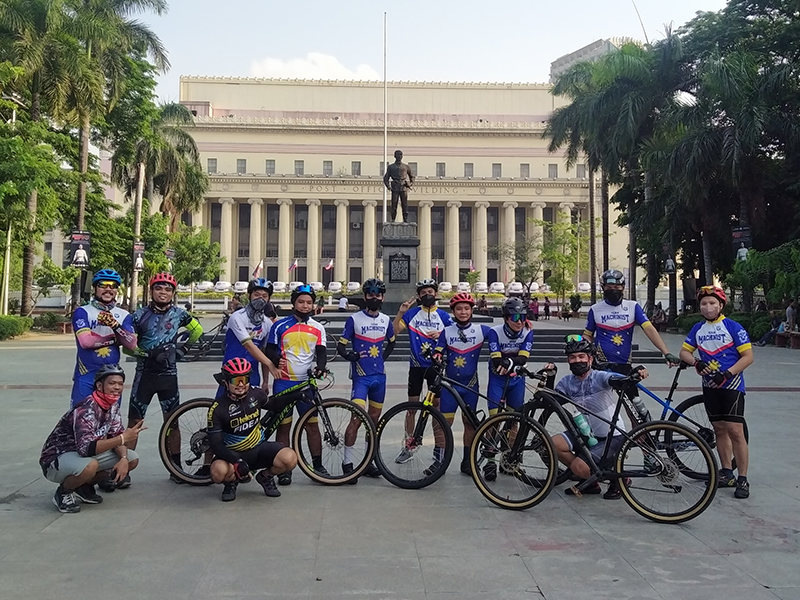
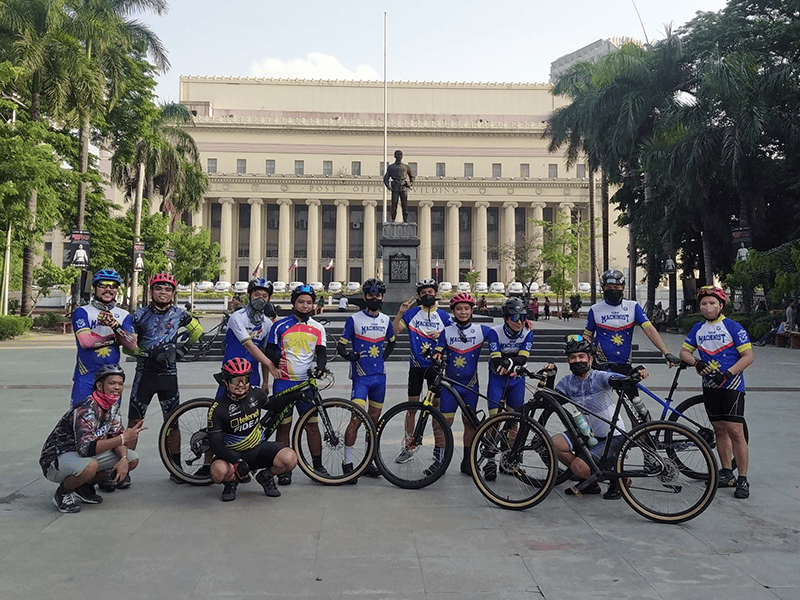
optimize image

diff --git a/portfolio.html b/portfolio.html
@@ -39,9 +39,9 @@
                 <a href="view.html" onclick="loadProject('dishwashing')">
                     <div class="content to-animate">
                         <div class="compile-image-container img-min-height neumorphism box-background">
-                            <img src="img/dishwashing/Calamansi.png" alt="" width="100%">
-                            <img src="img/dishwashing/Lemon.png" alt="" width="100%">
-                            <img src="img/dishwashing/Mockup.png" alt="" width="100%">
+                            <img src="img/compressImage/Calamansi.png" alt="" width="100%">
+                            <img src="img/compressImage/Lemon.png"alt="" width="100%">
+                            <img src="img/compressImage/Mockup.png" alt="" width="100%">
                         </div>
                         <p class="to-animate" class="to-animate"><b>Dishwashing </b><br>The Dishwashing cover project was created in January 2025 as requested by my sister. This project was created by using PhotoShop and it is called compositing, by using different images to compose a single useful image. It was created to help my sister's husband to sell dishwashing liquid to the market for the organization of PWD in their barangay.</p>
                     </div>
@@ -50,9 +50,9 @@
                 <a href="view.html" onclick="loadProject('jersey')">
                     <div class="content row-reverse to-animate">
                         <div class="compile-image-container img-min-height neumorphism box-background">
-                            <img src="img/jersey/Cycling shirt back view.png" alt="" width="100%">
-                            <img src="img/jersey/Cycling shirt front view.png" alt="" width="100%">
-                            <img src="img/jersey/Cycling shorts front view.png" alt="" width="100%">
+                            <img src="img/compressImage/Cycling shirt back view.png" alt="" width="100%">
+                            <img src="img/compressImage/Cycling shirt front view.png" alt="" width="100%">
+                            <img src="img/compressImage/Cycling shorts front view.png" alt="" width="100%">
                         </div>
                         <p class="to-animate"><b>Cycling Jersey</b><br>The team Machinist jersey this is my project to help my co-cyclist to create a new jersey for our private group. They give me the preferred color of the jersey; that's why it's colored black and yellow-green. It's created using Adobe Illustrator for high-quality design. It took me almost 2 months to finish this design because I have 0 knowledge of Adobe Illustrator, so I needed to study first.</p>
                     </div>
@@ -61,9 +61,9 @@
                 <a href="view.html" onclick="loadProject('logoDesign')">
                     <div class="content to-animate">
                         <div class="compile-image-container img-min-height neumorphism box-background">
-                            <img src="img/waterStationLogo/JME banner.png" alt="" width="100%">
-                            <img src="img/waterStationLogo/JME logo.png" alt="" width="100%">
-                            <img src="img/waterStationLogo/business Card.png" alt="" width="100%">
+                            <img src="img/compressImage/JME banner.png" alt="" width="100%">
+                            <img src="img/compressImage/JME logo.png" alt="" width="100%">
+                            <img src="img/compressImage/Business card.png" alt="" width="100%">
                         </div>
                         <p class="to-animate"><b>Water refilling Station logo design</b><br>I made this logo for my cousin, who runs his 1st water refilling business. This is my first paid design; this was created using Adobe PhotoShop, Illustrator, Blender, and some Microsoft Office. Most of my work is on Adobe; I use Blender for the 3D logo and Microsoft Office for some documentation and printing parts. </p>
                     </div>

diff --git a/index.html b/index.html
@@ -70,9 +70,9 @@
                     <hr>
                 <h2 class="to-animate">My Hobby</h2>
                     <div class="my-personal-image to-animate" onclick="window.location.href = 'myImageFullSize.html'">
-                        <img src="img/myImages/front (2).png" class="neumorphism-raise box-background" alt="">
-                        <img src="img/myImages/front (1).png" class="neumorphism-raise box-background" alt="">
-                        <img src="img/myImages/front (3).png" class="neumorphism-raise box-background" alt="">
+                        <img src="img/compressImage/front (2).png" class="neumorphism-raise box-background" alt="">
+                        <img src="img/compressImage/front (1).png" class="neumorphism-raise box-background" alt="">
+                        <img src="img/compressImage/front (3).png" class="neumorphism-raise box-background" alt="">
                     </div>
             </div>
         <footer>
